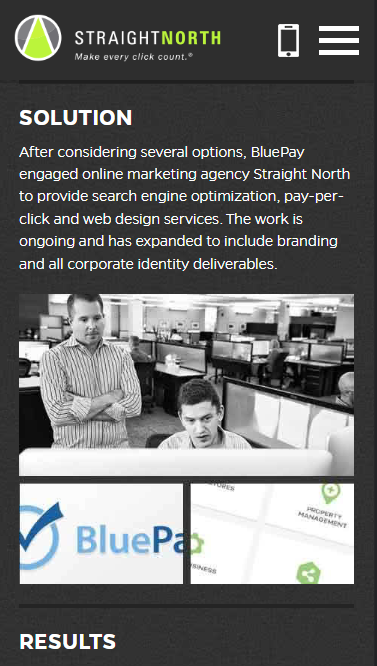
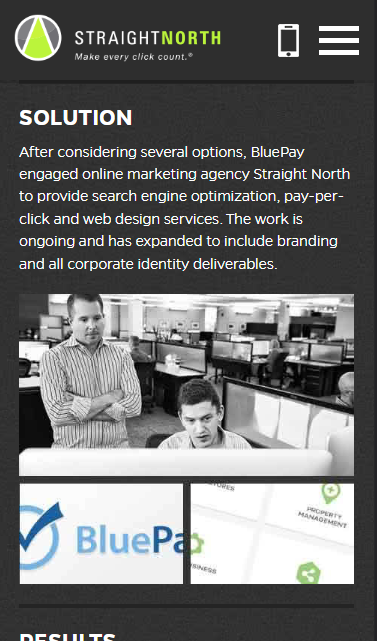
fixed some alignment issues

diff --git a/week02/styles/small2.css b/week02/styles/small2.css
@@ -12,7 +12,7 @@
 
 body {
     max-width: 310px;
-    margin: 2px;
+    margin: 5px;
     
 }
 
@@ -20,17 +20,15 @@ header {
     padding: 10px;
     background-color: dodgerblue;
     color: aliceblue;
-    margin: 5px -4px 2px 2px;
-    
-    
     
 }
 
-h1 {
-    margin: 0;
+header h1 {
+    
     font-size: 1.5em;
     text-shadow: 2px 7px 9px rgba(0, 0, 0, 0.503);
     text-align: center;
+    line-height: 2rem;
     
 }
 header h2 {
@@ -42,63 +40,61 @@ header h2 {
 }
 
 
-h3{
-    text-align: left;
-    padding: 8px;
-    margin: 4px -6px;
-    
-}
+
 main {
     display: grid;
     grid-template-columns: 1fr;
     
+    
+    
 }
 section {
-    margin-top: 14px;
+    margin-top: 10px;
     border: 2px solid rgba(0, 0, 0, 0.401);
     background-color: rgb(232, 231, 231);
     border-radius: 5px 5px 0 0;
-    padding: 5px;
+    
     
     
 }
-main h2 {
+section h2 {
     background-color: rgb(9, 129, 241);
     border-radius: 5px 5px 0 0;
     color: aliceblue;
-    padding: 7px;
-    margin: -6.1px;
+    padding: 10px;
+    margin: -2px;
     text-shadow: 2px 7px 9px rgba(0, 0, 0, 0.503);
-    
-    
+   
 }
 
-h3 {
+section h3 {
     font-size: 16px;
+    text-align: left;
+    padding: 5px;
+    margin: 5px;
+    
 }
-
-
 
 section img {
-   
-    margin: 10px 0px -7px -0.5px
+    padding: 5px;
 }
-#third img {
-    max-width: 100%;
+
+section p, a {
+    padding: 5px;
+    margin: 5px;
+}
+a:hover {
+    background-color: rgb(42, 157, 165);
+    color: aliceblue;
 }
 
 footer {
     padding: 5px;
     background-color: rgb(9, 129, 241);
-    text-align: left;
+    text-align: center;
     color: black;
-    margin: 0px -4px 1px 2px;
-    
+    margin: 3px -4px 1px 2px;
 
 }
 
 
-a:hover {
-    background-color: rgb(42, 157, 165);
-    color: aliceblue;
-}

diff --git a/week02/design-principles.html b/week02/design-principles.html
@@ -40,18 +40,17 @@
             <h3>The Creative Momentum</h3>
             <a href="https://www.thecreativemomentum.com/" target="_blank">https://www.thecreativemomentum.com</a>
             <img src="../images/whitespace.png" alt="Mobile view white space" width="300px">
-            <p>This quote form has a good white space applied, specially in the input boxes, where by default there is no padding. I purposely typed some information to see how the padding not only was applied between input boxes but also inside where the user types their information. This form is clear and easy to read and it has the appropriate white space and padding.</p>
+            <p>This quote form has a good white space applied, especially in the input boxes, where by default there is no padding. I purposely typed some information to see how the padding not only was applied between input boxes but also inside where the user types their information. This form is clear and easy to read and it has the appropriate white space and padding.</p>
         </section>
 
         <section id="third">
             <h2>PARC: Alignment</h2>
             <h3>Straight North</h3>
-            <a href="https://www.straightnorth.com/"
-                target="_blank">https://www.straightnorth.com</a>
+            <a href="https://www.straightnorth.com/" target="_blank">https://www.straightnorth.com</a>
 
             
                 <!-- <source media="(max-width: 300px)" srcset="../images/resized.png"> -->
-            <img src="../images/alignment.png" alt="alignment">
+            <img src="../images/alignment.png" alt="alignment" width="300px" id="image">
             
             <!-- <picture>
                 <source media="(max-width: 600px)" srcset="../images/alignment.png">

diff --git a/week02/styles/large2.css b/week02/styles/large2.css
@@ -1,46 +1,40 @@
 @media only screen and (min-width: 60em) {
     body {
-        max-width: 1200px;
+        max-width: 100%;
+        
     }
 
-    main {
-        grid-template-columns: 1fr 1fr 1fr;
-        grid-gap: 10px;
-    }
-
-    main section:nth-child(3) {
-        grid-column: span 1;
-    }
+    
 
     header {
         background-image: linear-gradient(to top, rgba(255, 255, 255, 0.437), dodgerblue) ;
     }
 
-    header h1, h2 {
-        margin: 10px ;
-        
+    main {
+        grid-template-columns: 1fr 1fr 1fr;
+        grid-gap: 10px;
+
     }
 
-
-    main h2 {
+    main section:nth-child(3) {
+        grid-column: span 1;
+    }
+    section h2 {
         font-size: 27px;
         text-align: center;
     }
-    main h3{
+    section h3{
         text-align: center;
         font-size: 18px;
     }
 
-    section{
+    section a{
+        display: block;
         text-align: center;
-        margin-left: 30px;
-        margin-bottom: 10px;
-    } 
+    }
 
     section p {
-        text-align: left;
         line-height: 1.5rem;
-        margin-right: auto;
         
     }
     section h2{
@@ -48,14 +42,14 @@
         
         
     }
-    #third img {
-        max-width: 90%;
-        margin: 10px auto;
+    
+    section img {
+        display: block;
+        margin: 0 auto;
+        width: 70%;
     }
 
     footer {
-        margin-right: -30px;
-        margin-bottom: 7px;
         font-size: 18px;
         background-image: linear-gradient(to top, rgba(255, 255, 255, 0.437), dodgerblue);
     }

diff --git a/week02/styles/medium2.css b/week02/styles/medium2.css
@@ -1,30 +1,23 @@
 @media only screen and (min-width: 37.5em) {
     body {
-        max-width: 600px;
-    }
-
-    main {
-        
-        grid-template-columns: 1fr 1fr;
-
+        max-width: 650px;
     }
 
     header {
         font-size: 1.5rem;
-        margin: 5px -28px 2px 2px;
     }
     header h2 {
         font-size: 1.7rem
     }
 
-    section {
-        padding: auto;
-        margin-right: 5px;
+    main {
+        grid-template-columns: 1fr 1fr;
+        grid-gap: 5px;
+
     }
 
-    main h2 {
-        
-        padding: 5px;
+
+    section h2 {
         font-size: 1.3rem;
         margin-bottom: 5px
     }
@@ -33,26 +26,21 @@
         grid-column: span 2;
         text-align: center;
         
-        
-        
-       
     }
-    #third img {
-        padding: auto;
-        max-width: 200%;
-    }
-    section img:nth-child(3) {
-        grid-column: span 2;
-        
-        
+    #image {
+        display: block;
+        margin: 0 auto;
+        width: 70%;
         
     }
-    #third h2, h3{
+    
+    #third h3{
         text-align: center;
-    }
+    } 
 
     #third a {
         display: block;
+        text-align: center;
     }
     #third p {
         text-align: left;
@@ -60,10 +48,8 @@
 
     footer{
         text-align: center;
+        margin: auto;
+    
     }
-    main section p:nth-child(3) {
-        text-align: left;
-    }
-
     
 }    
